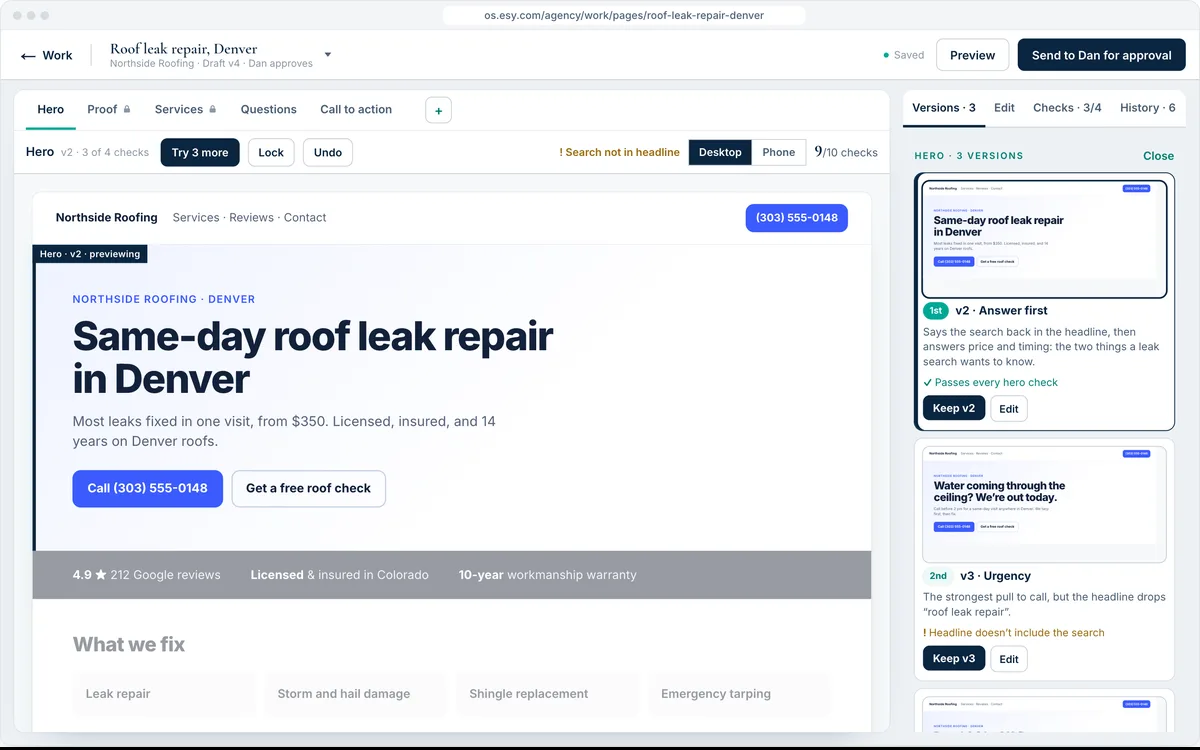
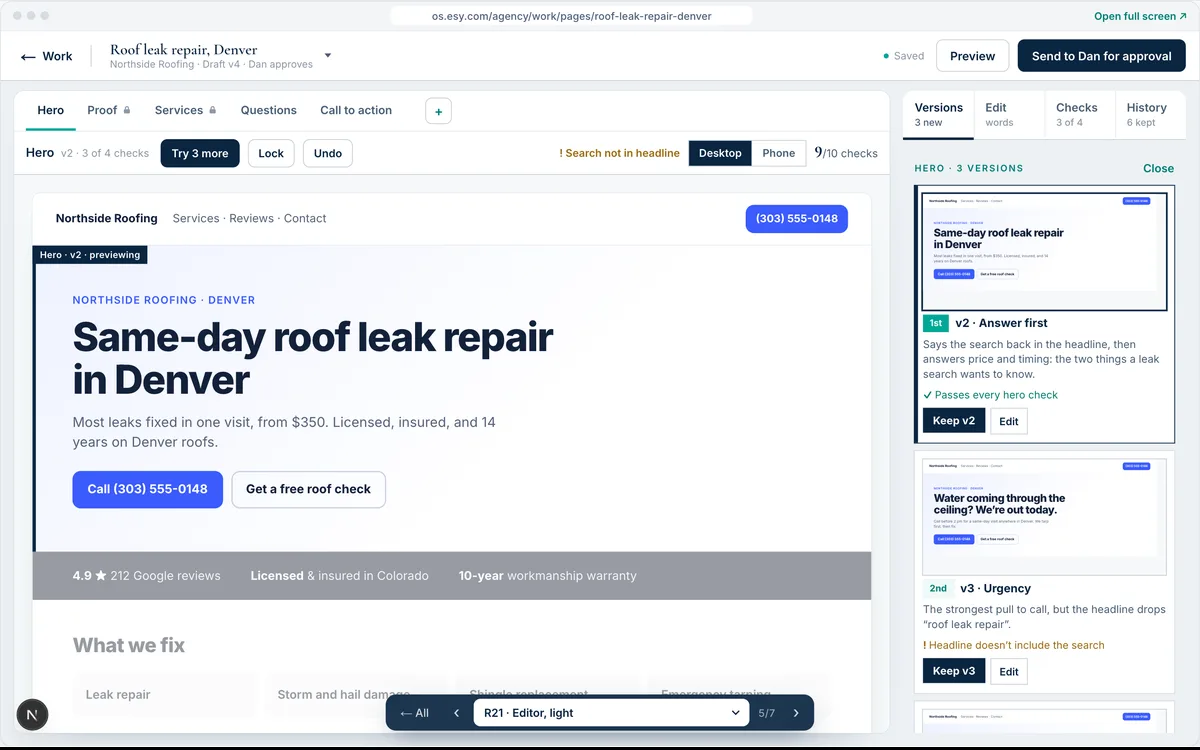
Page builder: the rail's tabs spread out, and its items go square
Zev: "the right rail header is all clumped" and "remove the border radius
on the rail items". The rail's four tabs are now even columns, each its
name over what it holds (Versions · 3 new, Edit · words, Checks · 3 of 4,
History · 6 kept). Everything inside the rail is square; the rail keeps its
rounded edge, like the page frame beside it.

builder.css and builder2.css now say this copy is the one to edit; the
product stylesheets (folio, agency, app) stay verbatim.

diff --git a/src/components/PageBuilder/builder2.css b/src/components/PageBuilder/builder2.css
@@ -1,6 +1,7 @@
-/* Copied verbatim from os.esy.com (src/components/folio/agency/builder2.css, the page builder prototype, PR #319, 2026-10-04) so the
-   esy.com prototype shows the real styling. Re-copy rather than edit;
-   prototype-only tweaks live in preview.css. */
+/* Started as a copy of the page builder prototype's stylesheet in os.esy.com
+   (src/components/folio/agency/, PR #319, 2026-10-04). The builder's
+   prototypes live here now, so this copy is the one to edit. folio.css,
+   agency.css and app.css are product CSS: re-copy those, never edit them. */
 
 /* B1 redone inside the real /agency shell (/_agency/builder/r1…r4). No
    side rails except S2 while swapping; controls sit in a bar fixed to the top
@@ -575,3 +576,16 @@
 .folio .ed-chip { padding: 2px 8px; border-radius: var(--fo-r-pill); background: var(--fo-tint); font: 600 0.72rem var(--fo-sans); color: var(--fo-ink-soft); }
 .folio .ed-crumbbar .fo-bar-end { align-items: center; gap: 8px; }
 .folio .ed-body .rb-rail2 { align-content: start; justify-content: flex-start; }
+
+/* ── The rail, Oct 4 (Zev): "the right rail header is all clumped" and "remove
+   the border radius on the rail items". Four even tabs, each a name over what
+   it holds; everything inside the rail is square. The rail itself keeps its
+   rounded edge, like the page frame beside it. ───────────────────────── */
+.folio .rb-navysel .vz-rail .vz-tabs { display: grid; grid-template-columns: repeat(4, minmax(0, 1fr)); }
+.folio .rb-navysel .vz-rail .vz-tabs button { display: flex; flex-direction: column; align-items: flex-start; gap: 3px; padding: 12px 14px 11px; min-width: 0; }
+.folio .rb-navysel .vz-rail .vz-tabs button + button { box-shadow: inset 1px 0 0 var(--fo-hair); }
+.folio .rb-navysel .vz-rail .vz-tabs button span { font: 600 0.86rem var(--fo-sans); }
+.folio .rb-navysel .vz-rail .vz-tabs button small { font: 500 0.72rem var(--fo-sans); color: var(--fo-ink-faint); white-space: nowrap; }
+.folio .rb-navysel .vz-rail .vz-tabs button.is-on small { color: var(--fo-ink-soft); }
+.folio .rb-navysel .vz-rail .vz-tabs button:hover span { color: var(--fo-navy); }
+.folio .rb-navysel .vz-rail :is(.vz-card, .vz-thumb, .rr-head, .rr-group, .rr-issue, .rr-field input, .rr-field textarea, .rr-chips button, .vz-tree li.is-on, .vz-keep, .rb-act, .rr-primary, .rr-ghost, .rr-link, .vz-livetag, .bd-rank, .vz-empty) { border-radius: 0; }

diff --git a/src/components/PageBuilder/PageBuilder.tsx b/src/components/PageBuilder/PageBuilder.tsx
@@ -23,7 +23,13 @@ export function PageBuilder({ demark = '', bar, shell }: { demark?: string; bar?
   const other = !!bar && sel !== 'hero';
   const hero = other ? CURRENT : tab === 'history' ? fromTree(hist) : swapping ? [CURRENT, ...ALTS].find((h) => h.id === preview) ?? CURRENT : CURRENT;
   const previewing = other ? false : tab === 'history' ? hist !== 'v2' : swapping;
-  const tabs = [['versions', swapping ? 'Versions · 3' : 'Versions'], ['edit', 'Edit'], ['checks', 'Checks · 3/4'], ['history', 'History · 6']] as const;
+  // Each tab: its name, and what's in it underneath.
+  const tabs = [
+    ['versions', 'Versions', swapping && !other ? '3 new' : 'none yet'],
+    ['edit', 'Edit', 'words'],
+    ['checks', 'Checks', '3 of 4'],
+    ['history', 'History', '6 kept'],
+  ] as const;
   const onTry = () => { setSwapping(true); setTab('versions'); };
   // The picked section drives the bar, the canvas and the rail together.
   const pick = (id: string) => {
@@ -52,7 +58,7 @@ export function PageBuilder({ demark = '', bar, shell }: { demark?: string; bar?
         />
         <aside className="rb-rail2 rr--cards vz-rail" aria-label={secName(bar ? sel : 'hero')}>
           <div className="vz-tabs" role="tablist">
-            {tabs.map(([k, l]) => <button key={k} role="tab" aria-selected={tab === k} className={tab === k ? 'is-on' : ''} onClick={() => setTab(k)}>{l}</button>)}
+            {tabs.map(([k, l, n]) => <button key={k} role="tab" aria-selected={tab === k} className={tab === k ? 'is-on' : ''} onClick={() => setTab(k)}><span>{l}</span><small>{n}</small></button>)}
           </div>
           {tab === 'versions' && other && <p className="vz-empty">Try 3 more on {secName(sel)} to see three versions of it here.</p>}
           {tab === 'versions' && !other && (swapping ? <VersionCards preview={preview} setPreview={setPreview} onClose={() => setSwapping(false)} /> : <p className="vz-empty">Use Try 3 more above the page to see three versions here.</p>)}

diff --git a/src/components/PageBuilder/builder.css b/src/components/PageBuilder/builder.css
@@ -1,6 +1,7 @@
-/* Copied verbatim from os.esy.com (src/components/folio/agency/builder.css, the page builder prototype, PR #319, 2026-10-04) so the
-   esy.com prototype shows the real styling. Re-copy rather than edit;
-   prototype-only tweaks live in preview.css. */
+/* Started as a copy of the page builder prototype's stylesheet in os.esy.com
+   (src/components/folio/agency/, PR #319, 2026-10-04). The builder's
+   prototypes live here now, so this copy is the one to edit. folio.css,
+   agency.css and app.css are product CSS: re-copy those, never edit them. */
 
 /* Page builder prototypes (/_agency/builder). Folio chrome (.bd-) around a
    client's own page (.np-), which keeps its own look. */
